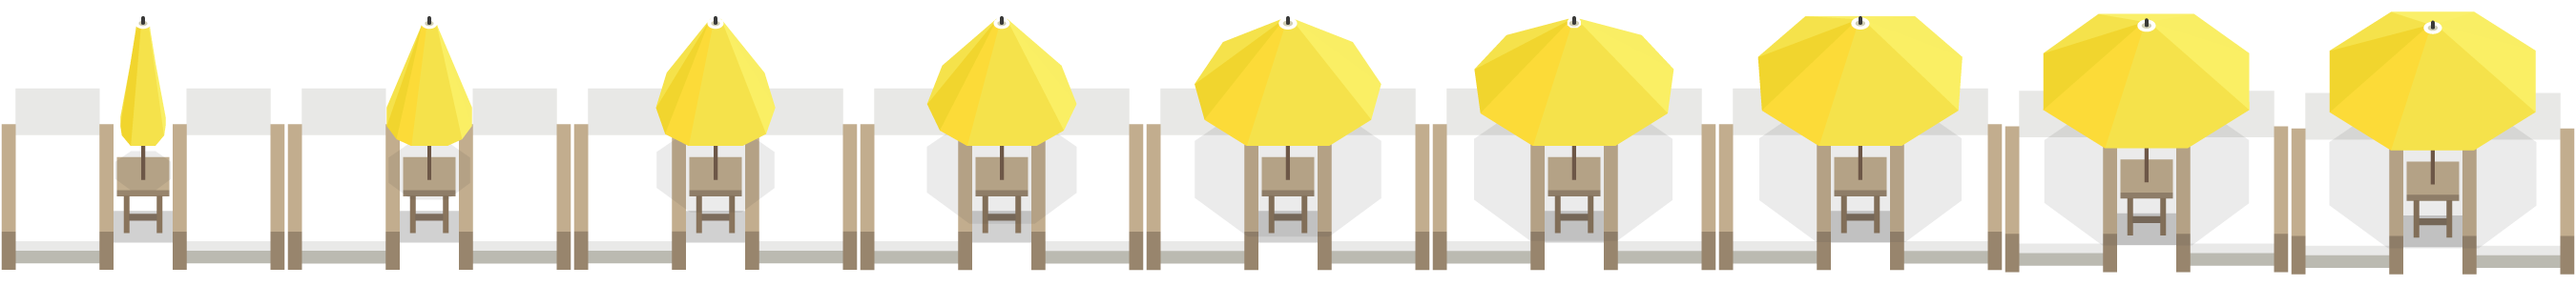
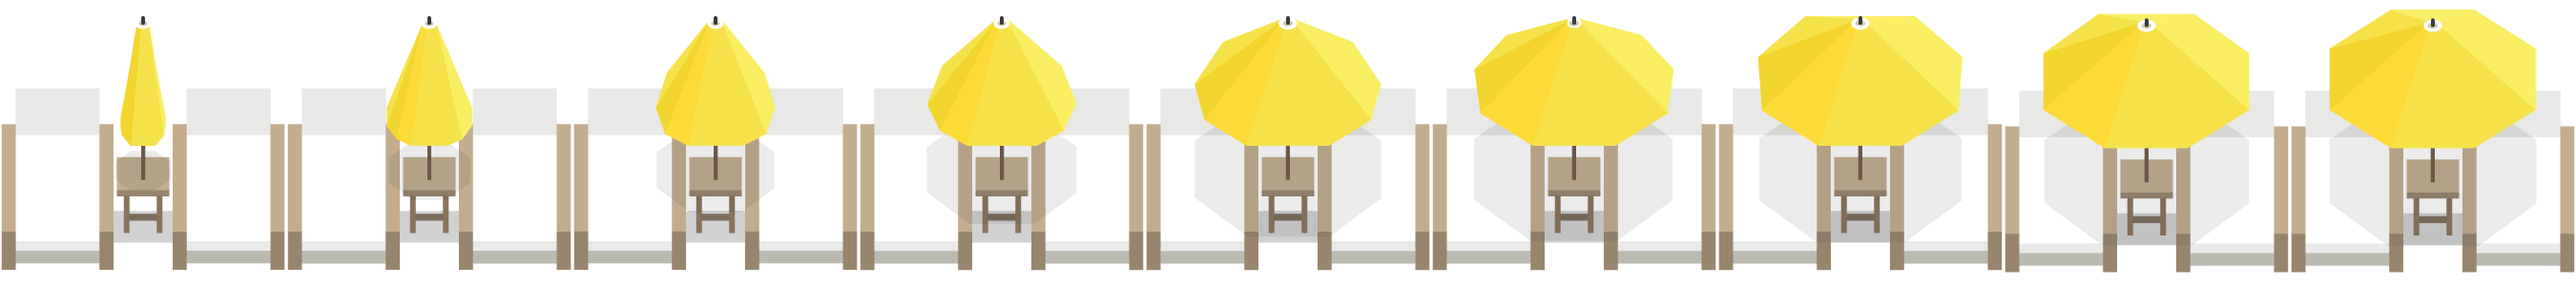
수정2

diff --git a/script.js b/script.js
@@ -1,9 +1,12 @@
 var game = new Phaser.Game(1920, 1080, Phaser.AUTO, '', {preload: preload, create: create});
+var parasol3
 
 function preload() {
-	game.load.image('parasol3', 'assets/parasol3.png');
+	game.load.spritesheet('parasol3', 'assets/parasol3.png', 300, 300);
 }
 
 function create() {
-	game.add.sprite(100, 100, 'parasol3');
+	parasol3= game.add.sprite(100, 100, 'parasol3');
+	parasol3.animations.add('walk');
+	parasol3.animations.play('walk', 15, true);
 }
